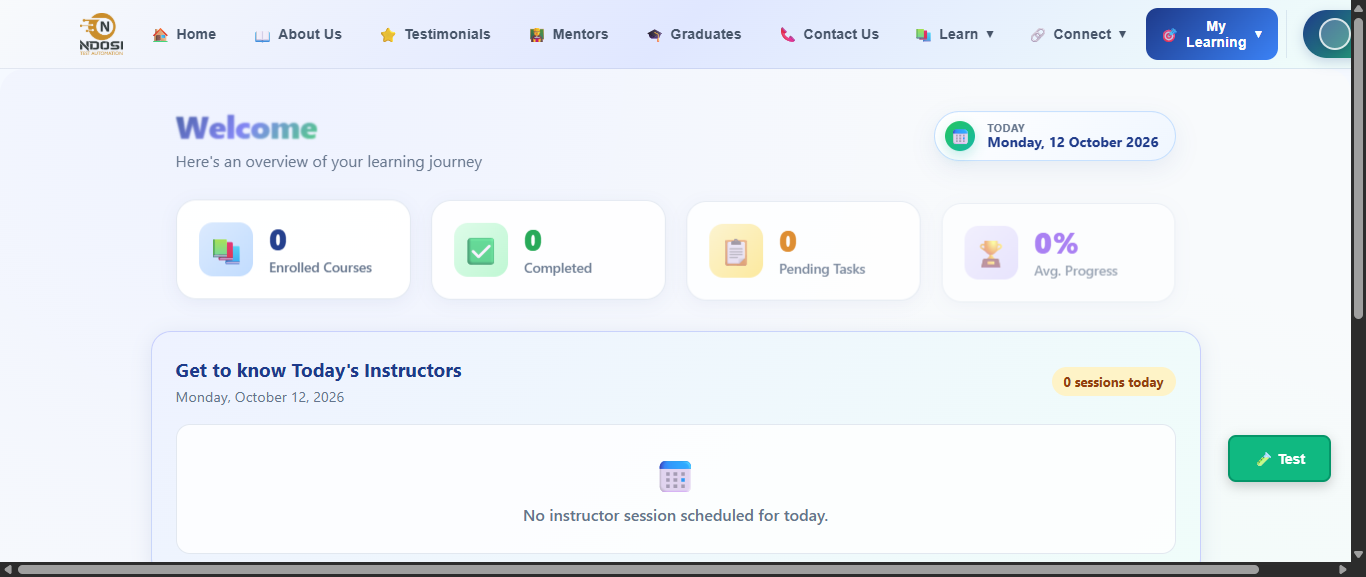
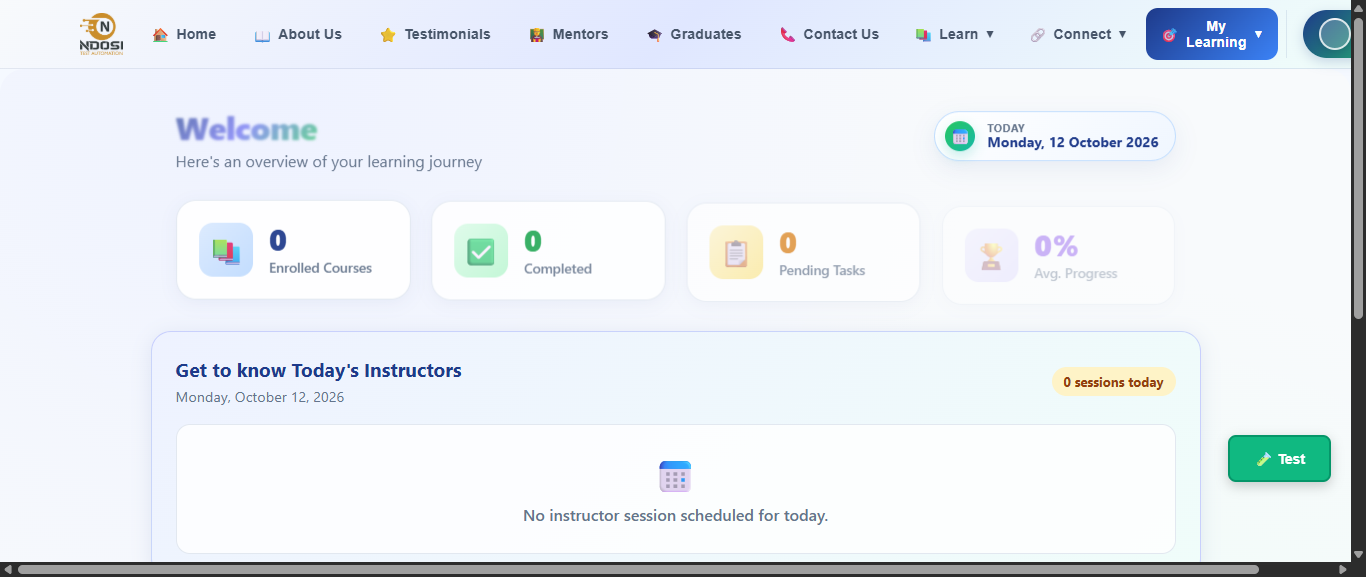
Updated the UITest removed the verifyhomepage method

diff --git a/src/test/java/ndosiuitest/UItests.java b/src/test/java/ndosiuitest/UItests.java
@@ -6,14 +6,14 @@ import utils.ReadFromExcelFile;
 
 @Test
 public class UItests extends Base {
-    @Test
-    public void verifyHomePage()
-    {
-        homePage.verifyHomeP();
-        System.out.println("Homepage verified");
-        TakeScreenshots.takeSnapShots(driver, "Homepage_screenshot001");
-    }
-    @Test(dependsOnMethods = "verifyHomePage")
+//    @Test
+//    public void verifyHomePage()
+//    {
+//        homePage.verifyHomeP();
+//        System.out.println("Homepage verified");
+//        TakeScreenshots.takeSnapShots(driver, "Homepage_screenshot001");
+//    }
+    @Test//(dependsOnMethods = "verifyHomePage")
     public void clickhomeLoginButton()
     {
         homePage.clickLoginBtn();
